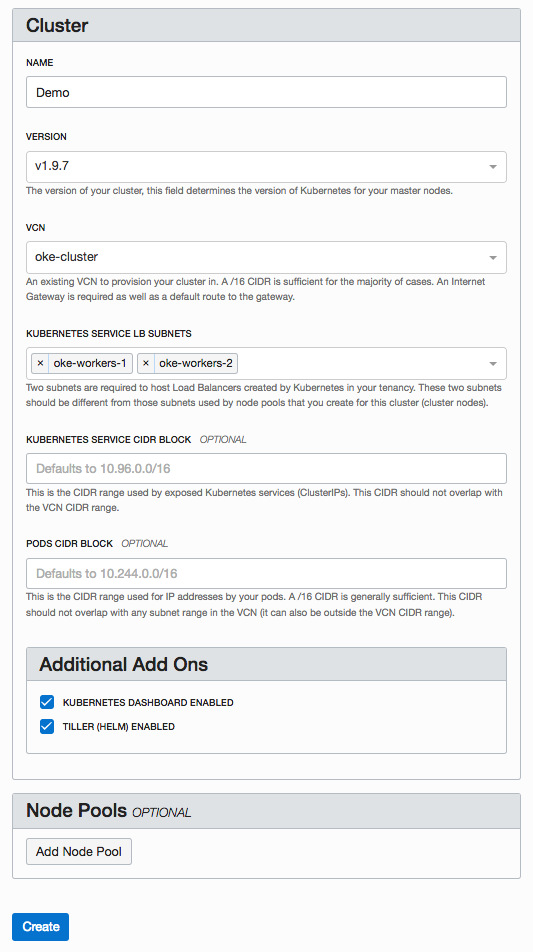
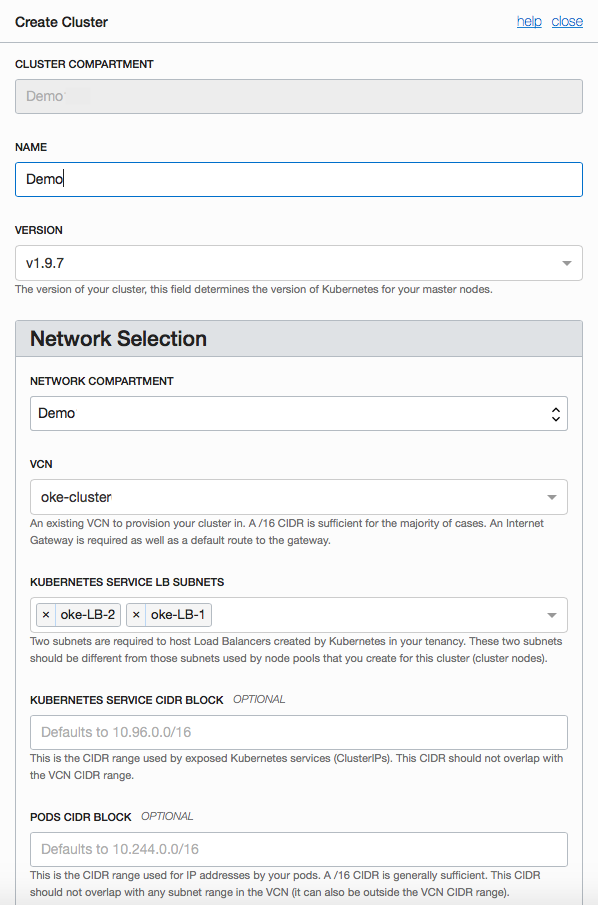
Updated image

diff --git a/workshops/container-native-development/LabGuide200-Linux.md b/workshops/container-native-development/LabGuide200-Linux.md
@@ -33,32 +33,34 @@ During this lab, you will take on the **DevOps Engineer Persona**. You will prov
 ## Set Up Oracle Cloud infrastructure
 
 
-### **STEP 1**: Log in to your OCI dashboard
+### **STEP 1**: Log in to your OCI Console
 
-- Please refer to the Cloud Account that has been provided by your workshop instructor. _Please note your account details will be provided separately and are not available on these pages._
+- Please refer to the Cloud Account that has been provided by your workshop instructor or your administrator. _Please note your account details will be provided separately and are not available on these pages._
 
 - Once you receive the **Oracle Cloud Account**, make note of your **Username, Password, Cloud Tenant Name and Console URL**.
 
-- Open your browser (Firefox or Chrome) and go to your Console URL. The Console URL is:
+- Open your browser (Safari, Firefox or Chrome) and go to your Oracle Cloud Infrastrcuture Console URL. The OCI Console URL is:
 
    [https://console.us-ashburn-1.oraclecloud.com/#/a/](https://console.us-ashburn-1.oraclecloud.com/#/a/)
-    
-   _This URL may be different to the one your are provided with. Use the provided URL if it is different to the above_
+
+   _This URL may be different to the one your are provided with. Use the provided URL if it is different to the above._
+
+   _You can also access the OCI Console URL from your Cloud Dashboard._
 
 - Click on **Change tenant** button if you are not presented with **Cloud Tenant** input field.
 
   ![](images/200/0.2.png)
 
-- Enter your **Cloud Tenant Name** in the input field and click the **Continue** button. This is supplied by your workshop instructor earlier.
+- Enter your **Cloud Tenant Name** in the input field and click the **Continue** button. This is supplied by your workshop instructor or administrator earlier.
 
   ![](images/200/0.3.png)
-  
-  
-- If you are using an Oracle GSE account, you will be using the default **api.user** to do all provisioning work. This **api.user** does not have the administration rights to create the Kubernetes cluster in OCI. Therefore you must login using the Single Sign-On (SSO) identy first and assign **api.user** to the admin group and then login to **api.user** for the rest of the lab.
 
-- Click **Continue** under the SSO Identity Provider box
 
-- Enter **cloud.admin** and its **password** in the input fields and click **Sign In**
+  - If you are using an Oracle GSE account, you will be using the default **api.user** to do all provisioning work. Otherwise, you will use your own local user login provided by your Cloud administrator. By default, the local user such as **api.user** does not have the administration rights to create the Kubernetes cluster in OCI. Therefore you must login using the Single Sign-On (SSO) identity with administrative rights and assign the local user (**api.user**) to the admin group. Then log back into the local user account (**api.user**) for the rest of the lab.
+
+  - Click **Continue** under the SSO Identity Provider box
+
+  - Enter **cloud.admin**  or your Cloud username and its **password** in the input fields and click **Sign In**
 
   ![](images/200/0.5.png)
 
@@ -67,27 +69,26 @@ During this lab, you will take on the **DevOps Engineer Persona**. You will prov
 - Click on the **Administrators** group
 
   ![](images/200/0.6.png)
-  
+
 - Click **Add User to Group**
 
-- Select **api.user** from the drop down list and click **Add**
+- Select **api.user** or your local username from the drop down list and click **Add**
 
   The **api.user** is now added to the **Administrators** group and you should see something similar to below.
-  
+
   ![](images/200/0.7.png)
 
 - You can now **Sign Out** of the OCI Console.
 
-- Now sign in again using the **api.user** user name for Oracle Cloud Infrastructure on the right side of the login page.
+- Now sign in again using the **api.user** or your local username for Oracle Cloud Infrastructure on the right side of the login page.
 
 - Click **Sign In**
 
   ![](images/200/0.8.png)
 
-- Ensure you're signed in as **api.user** for the rest of the lab
+  - Ensure you're signed in as **api.user** or your local user for the rest of the lab
 
 - You now ready to create policies
-
 
 
 ### **STEP 2**: Create Policy for Container Engine
@@ -113,49 +114,50 @@ To create and manage clusters in your tenancy, Container Engine must have access
 
   ![](images/200/70.png)
 
-### **STEP 3**: Configuring Network Resources
+  ### **STEP 3**: Configuring Network Resources
 
-You must create a VCN for your cluster and it must include the following:
+  You must create a VCN for your cluster and it must include the following:
 
-  - The VCN must have a CIDR block defined that is large enough for at least five subnets, in order to support the number of hosts and load balancers a cluster will have
-  - The VCN must have an internet gateway defined
-  - The VCN must have a route table defined that has a route rule specifying the internet gateway as the target for the destination CIDR block
-  - The VCN must have five subnets defined, three subnets in which to deploy worker nodes and two subnets to host load balancers.
+    - The VCN must have a CIDR block defined that is large enough for at least five subnets, in order to support the number of hosts and load balancers a cluster will have
+    - The VCN must have an internet gateway defined
+    - The VCN must have a route table defined that has a route rule specifying the internet gateway as the target for the destination CIDR block
+    - The VCN must have five subnets defined, three subnets in which to deploy worker nodes and two subnets to host load balancers.
 
-### **STEP 3.1**: VCN Configuration
+  ### **STEP 3.1**: VCN Configuration
 
-- In the Console, click **Networking**, and then click **Virtual Cloud Network**
+  - In the Console, click **Networking**, and then click **Virtual Cloud Network**
 
-- Select your the tenancy's **Demo** compartment (for GSE env) from the list on the left
+  - Select your the tenancy's **Demo??** compartment from the compartment list on the left. Replace ?? with your assigned number (01 to 20).
 
-- Click **Create Virtual Cloud Network**
+  - Click **Create Virtual Cloud Network**
 
-- Enter the following:
-  - **Name:** `oke-cluster`
-  - **CIDR Block:** `10.0.0.0/16`
-  - **DNS Resolution:** Check box to **USE DNS HOSTNAMES IN THIS VCN**
+  - Enter the following:
+    - **Name:** `oke-cluster??` (Where ?? is your assigned number)
+    - **CIDR Block:** `10.0.0.0/16`
+    - **DNS Resolution:** Check box to **USE DNS HOSTNAMES IN THIS VCN**
 
-- Leave the rest to default (Compartment defaults to **Demo** for GSE env)
-
-- Click **Create Virtual Cloud Network**
+  - Leave the rest to default (Compartment defaults to **Demo** for GSE env)
 
   ![](images/200/71.png)
+
+- Click **Create Virtual Cloud Network**
+
 
 
 ### **STEP 3.2**: Internet Gateway Configuration
 
 The VCN must have an internet gateway. The internet gateway must be specified as the target for the destination CIDR block 0.0.0.0/0 in a route rule in a route table.
 
-Once the **oke-cluster** VCN is created
+Once the **oke-cluster??** VCN is created
 
-- Click on the **oke-cluster** VCN to enter the details page
+- Click on the **oke-cluster??** VCN to enter the details page
 
 - Select **Internet Gateways** from the list on the left and click on **Create Internet Gateway**
 
 - Enter the following:
   - **Name:** `oke-gateway-0`
 
-- Leave the rest to default (Compartment defaults to **Demo** for GSE env)
+- Leave the rest to default (Compartment defaults to **Demo??**)
 
 - Click **Create Internet Gateway**
 
@@ -184,7 +186,7 @@ If a default Route Table has not been created for you, then create a new Route T
   - **Target Type:** `Internet Gateway`
   - **Target Internet Gateway:** `oke-gateway-0`
 
-- Leave the rest to default (Compartment defaults to **Demo** for GSE env)
+- Leave the rest to default (Compartment defaults to **Demo?** for GSE env)
 
 - Click **Create Route Table**
 
@@ -192,30 +194,30 @@ If a default Route Table has not been created for you, then create a new Route T
 
 However, if a default Route Table has been created, then you only need to add a new rule to the Route Table.
 
-- Click on the **Default Route Table for oke-cluster** (default generated name) Route Table to enter the details page
+- Click on the **Default Route Table for oke-cluster??** (default generated name) Route Table to enter the details page
 
 - Click on **Edit Route Rules**
 
 - Enter the following:
-  - **Destination CIDR block:** `0.0.0.0/0`
   - **Target Type:** `Internet Gateway`
+  - **Destination CIDR block:** `0.0.0.0/0`
+  - **Compartment:** `Demo??`
   - **Target Internet Gateway:** `oke-gateway-0`
 
   ![](images/200/74.png)
 
   - Click **Save**
-  
-  
+
 
 ### **STEP 3.4**: DHCP Options Configuration
 
 The VCN must have a DHCP Options configured. The default value for DNS Type of Internet and VCN Resolver is acceptable.
 
-- In the VCN `oke-cluster` details page, select **DHCP Options** from the list on the left
+- In the VCN `oke-cluster??` details page, select **DHCP Options** from the list on the left
 
-  A `Default DHCP Options for oke-cluster` should have been created for you
-  
-- Click on **Default DHCP Options for oke-cluster** DHCP option to see the detail and you should see something similar to below.
+  A `Default DHCP Options for oke-cluster??` should have been created for you
+
+- Click on **Default DHCP Options for oke-cluster??** DHCP option to see the detail and you should see something similar to below.
 
   ![](images/200/78.png)
 
@@ -227,7 +229,7 @@ The VCN must have security lists defined for the Worker Node Subnets and the Loa
 Create two additional security lists to the default `Default Security List for oke-cluster`
   - **Security List Name:** `oke-workers`
   - **Security List Name:** `oke-loadbalancers`
-  
+
 There are two types of rules, Ingress and Egress, for both Workers and Load Balancer security lists. There 12 rules in total for the Worker Node Subnet and two rules in total for the Load Balancer Subnet.
 
 Let's create the security lists and rules.
@@ -272,9 +274,9 @@ Let's create the security lists and rules.
 - Repeat Step 3.5.1 for the Load Balancer subnet with the Security List Name of **oke-loadbalancers** using the rules below:
 
   ![](images/200/83.png)
-  
-  
+
   - Click on **Create Security List** button to complete
+
 
   You should now have three security lists similar to below:
 
@@ -299,7 +301,7 @@ We usually require five subnets in the VCN to create and deploy clusters in a hi
   - **Name:** `oke-workers-1`
   - **Availability Domain:** `????:US-ASHBURN-AD-1`
   - **CIDR Block:** `10.0.10.0/24`
-  - **Route Table:** `Default Route Table for oke-cluster`
+  - **Route Table:** `Default Route Table for oke-cluster??`
   - **Public Subnet:** `Allow public IP addresses for instances in this Subnet`
   - **DNS Resolution:** `Use DNS Hostnames In This Subnet`
   - **DHCP Options:** `Default DHCP Options for oke-cluster`
@@ -314,11 +316,11 @@ We usually require five subnets in the VCN to create and deploy clusters in a hi
 - Repeat the above for the remaining two worker subnets **oke-workers-2** and **oke-workers-3** with the values below:
 
   **oke-workers-2**
-  
+
   - **Name:** `oke-workers-2`
   - **Availability Domain:** `????:US-ASHBURN-AD-2`
   - **CIDR Block:** `10.0.11.0/24`
-  - **Route Table:** `Default Route Table for oke-cluster`
+  - **Route Table:** `Default Route Table for oke-cluster??`
   - **Public Subnet:** `Allow public IP addresses for instances in this Subnet`
   - **DNS Resolution:** `Use DNS Hostnames In This Subnet`
   - **DHCP Options:** `Default DHCP Options for oke-cluster`
@@ -329,7 +331,7 @@ We usually require five subnets in the VCN to create and deploy clusters in a hi
   - **Name:** `oke-workers-3`
   - **Availability Domain:** `????:US-ASHBURN-AD-3`
   - **CIDR Block:** `10.0.12.0/24`
-  - **Route Table:** `Default Route Table for oke-cluster`
+  - **Route Table:** `Default Route Table for oke-cluster??`
   - **Public Subnet:** `Allow public IP addresses for instances in this Subnet`
   - **DNS Resolution:** `Use DNS Hostnames In This Subnet`
   - **DHCP Options:** `Default DHCP Options for oke-cluster`
@@ -337,14 +339,14 @@ We usually require five subnets in the VCN to create and deploy clusters in a hi
 
 
 
-- Repeat the above for the two load balancer subnets **oke-loadbalancers-1** and **oke-loadbalancers-2** as below:
-  
-  **oke-loadbalancers-1**
-  
-  - **Name:** `oke-loadbalancers-1`
+- Repeat the above for the two load balancer subnets **oke-LB-1** and **oke-LB-2** as below:
+
+  **oke-LB-1**
+
+  - **Name:** `oke-LB-1`
   - **Availability Domain:** `????:US-ASHBURN-AD-1`
   - **CIDR Block:** `10.0.20.0/24`
-  - **Route Table:** `Default Route Table for oke-cluster`
+  - **Route Table:** `Default Route Table for oke-cluster??`
   - **Public Subnet:** `Allow public IP addresses for instances in this Subnet`
   - **DNS Resolution:** `Use DNS Hostnames In This Subnet`
   - **DNS Label:** `loadbalancer1`
@@ -353,10 +355,10 @@ We usually require five subnets in the VCN to create and deploy clusters in a hi
 
   **oke-loadbalancers-2**
 
-  - **Name:** `oke-loadbalancers-2`
+  - **Name:** `oke-LB-2`
   - **Availability Domain:** `????:US-ASHBURN-AD-2`
   - **CIDR Block:** `10.0.21.0/24`
-  - **Route Table:** `Default Route Table for oke-cluster`
+  - **Route Table:** `Default Route Table for oke-cluster??`
   - **Public Subnet:** `Allow public IP addresses for instances in this Subnet`
   - **DNS Resolution:** `Use DNS Hostnames In This Subnet`
   - **DNS Label:** `loadbalancer2`
@@ -368,9 +370,9 @@ With the five subnets connected, we are ready to create a Kubernetes cluster.
 
 
 ### **STEP 4**: Create a Kubernetes Cluster
-  
-  
-- In the Console, click **Containers**, choose the **Demo** compartment, and then click **Clusters**
+
+
+- In the Console, click **Developer Services -> Containers Cluster (OKE)**, choose the **Demo??** compartment, and then click **Clusters**
 
 - Click **Create Cluster**
 
@@ -378,7 +380,7 @@ With the five subnets connected, we are ready to create a Kubernetes cluster.
   - **Name:** `Demo`
   - **Version:** `v1.9.7`
   - **VCN:** `oke-cluster`
-  - **Kubernetes Service LB Subnets:** `oke-workers-1`, `oke-workers-2`
+  - **Kubernetes Service LB Subnets:** `oke-LB-1`, `oke-LB-2`
   - **Kubernetes Dashboard Enabled:** `Checked`
   - **Tiller (Helm) Enabled:** `Checked`
 
@@ -395,8 +397,10 @@ You can either Click **Create** now and create your node pools later OR add the 
   - **Version:** `v1.9.7`
   - **Image:** `Oracle-Linux-7.4`
   - **Shape:** `VM.Standard2.1`
-  - **Subnets:** `oke-wokrers-3`
+  - **Subnets:** `oke-workers-1`, `oke-workers-2`, `oke-workers-3`
   - **Quantity Per Subnet:** `1`
+
+  This will create three worker nodes, one in each Availability Domain. If you do not require three worker nodes, then just specify the subsnet you one to be in. For example, if only one worker node in AD1, then specify the `oke-workers-1` in the Subnets field.
 
   Leave the rest of the fields to default and you should have something similar to below:
 
@@ -550,7 +554,7 @@ To start the Kubernetes Dashboard:
 - With the proxy server running, open a browser and go to http://localhost:8001/ui to enter the Kubernetes Dashboard.
 
   ![](images/200/64.png)
- 
+
 
 
 
@@ -561,9 +565,9 @@ The Kubernetes cluster setup is complete and you are now able to deploy your app
 - Open the `kubeconfig` file and look for the line with the **server** tag. For example:
 
   `server: https://cygiyzvmi4w.us-ashburn-1.clusters.oci.oraclecloud.com:6443`
-  
+
   This is the cluster address you should use for deployment, such as the one specified for `KUBERNETES_MASTER` in **Wercker Environment**.
-  
+
 Alternatively:
 
 - In the Console, open the navigation menu. Click **Containers**
